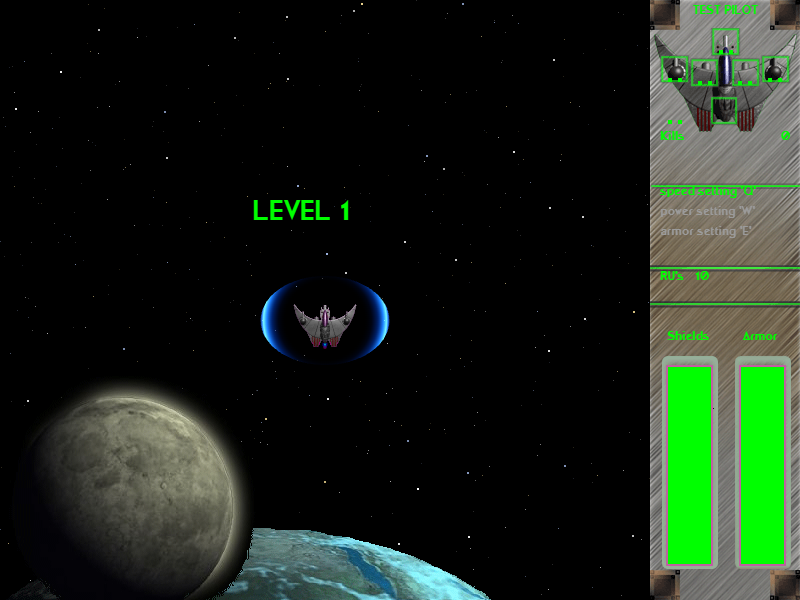
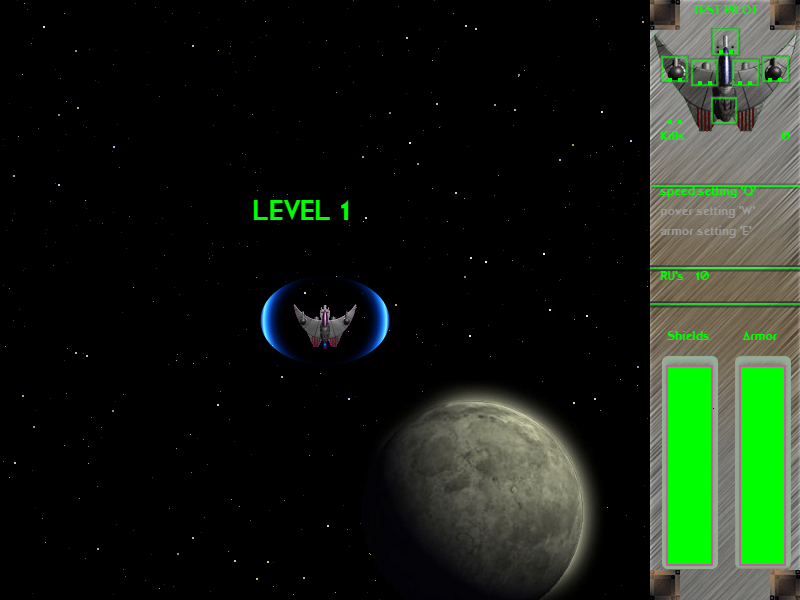
Fix weapon sounds, Earth/Moon positioning, customization screen
Weapon Sounds:
- Player fire triggers PlayerGun1 sound effect
- Enemy fire triggers AlienWeapon1 (gunship) or AlienWeapon5 (fighter)

Earth/Moon Positioning:
- Earth starts at y=150 (was 0) so it appears in lower portion
- Moon starts at y=0, x=350 (was x=0)  now on right side of play area
- Added scroll stop condition: stops when Moon passes y=600
- bodiesStopped flag prevents infinite scrolling

Ship Customization Screen:
- Uses GUI_ship.png (800x555) as background  real ship diagram with
  zone labels, weapon preview, and exit button from original game
- Converted 9 missing PCX assets to PNG (RGBA): gui_button, buy_button,
  turret_pannel_left/right, GUI_ship, exit_gui_button variants
- Buy Power Pod now affects ALL 3 power settings (matching C++ behavior)
- Added Research placeholder (n/a, cost=0) matching original
- Removed duplicate Exit Ship Customization button
- Zone highlights overlay on background without duplicate labels
- Added manifest entries for gui_button, exit_gui_button variants

Changed region(s): [[0.0312, 0.63, 0.75, 1.0], [0.0312, 0.96, 0.0938, 1.0]]

diff --git a/web/src/game/GameManager.ts b/web/src/game/GameManager.ts
@@ -483,6 +483,9 @@ export class GameManager {
             this.player.update(dt, this.input, this.now);
             this.player.emitEngineFlame(this.particles);
             const playerProj = this.player.tryFire(this.input, this.now, this.assets);
+            if (playerProj.length > 0) {
+                try { this.audio.playSound('PlayerGun1'); } catch { /* skip */ }
+            }
             this.projectiles.push(...playerProj);
         }
 
@@ -501,6 +504,11 @@ export class GameManager {
             if (!enemy.alive) continue;
             enemy.update(dt, playerX, playerY);
             const enemyProj = enemy.tryFire(this.now, this.assets);
+            if (enemyProj.length > 0) {
+                try {
+                    this.audio.playSound(enemy.type === 'gunship' ? 'AlienWeapon1' : 'AlienWeapon5');
+                } catch { /* skip */ }
+            }
             this.projectiles.push(...enemyProj);
         }
 
@@ -1438,7 +1446,7 @@ export class GameManager {
             return;
         }
 
-        // Buy Power Pod button
+        // Buy Power Pod button — affects ALL 3 settings (matching C++ behavior)
         if (mx >= 20 && mx <= 250 && my >= 420 && my <= 450) {
             try { this.audio.playSound('MenuSelect'); } catch { /* skip */ }
             if (this.player.powerPlant.resourceUnits < 1) {
@@ -1446,11 +1454,19 @@ export class GameManager {
                 this.custStatusTimer = 120;
                 return;
             }
-            if (setting[zone.c1] < maxCell) {
-                setting[zone.c1]++;
-                this.player.powerPlant.resourceUnits--;
-            } else if (setting[zone.c2] < maxCell) {
-                setting[zone.c2]++;
+            let added = false;
+            // Add power cell to ALL 3 settings for the selected system
+            for (let s = 0; s < 3; s++) {
+                const st = this.player.powerPlant.settings[s];
+                if (st[zone.c1] < maxCell) {
+                    st[zone.c1]++;
+                    added = true;
+                } else if (st[zone.c2] < maxCell) {
+                    st[zone.c2]++;
+                    added = true;
+                }
+            }
+            if (added) {
                 this.player.powerPlant.resourceUnits--;
             } else {
                 this.custStatusMsg = 'Max Number of Power Cells Reached!';
@@ -1469,99 +1485,55 @@ export class GameManager {
     private renderShipCustomization(): void {
         const ctx = this.canvas.ctx;
 
-        // Background
-        const bg = this.assets.tryGetImage('cust_GUI');
+        // Background — use GUI_ship.png (800×555) which has the ship diagram,
+        // zone labels, weapon preview, and exit button already drawn
+        const bg = this.assets.tryGetImage('GUI_ship');
         if (bg) {
-            ctx.drawImage(bg, 0, 0, 800, 600);
+            ctx.fillStyle = '#000';
+            ctx.fillRect(0, 0, 800, 600);
+            ctx.drawImage(bg, 0, 0);
         } else {
+            // Fallback: plain dark background
             ctx.fillStyle = '#0a1a0a';
             ctx.fillRect(0, 0, 800, 600);
-
-            // Top bar — "RU's: N" (left), Rank (center), "Kills: N" (right)
-            if (this.player) {
-                ctx.font = '18px XenoFont, monospace';
-                ctx.fillStyle = '#0f0';
-                ctx.fillText(`RU's:  ${this.player.powerPlant.resourceUnits}`, 10, 18);
-                ctx.textAlign = 'center';
-                const rank = this.getRank(this.player.kills);
-                ctx.fillText(rank, 400, 18);
-                ctx.textAlign = 'right';
-                ctx.fillText(`Kills:    ${this.player.kills}`, 790, 18);
-                ctx.textAlign = 'left';
-            }
-
-            // Draw ship silhouette in the ship area
-            ctx.save();
-            ctx.strokeStyle = '#1a3a1a';
-            ctx.lineWidth = 1;
-
-            // Ship body outline
-            ctx.beginPath();
-            ctx.moveTo(252, 50);   // nose tip
-            ctx.lineTo(215, 100);  // left shoulder
-            ctx.lineTo(100, 140);  // left wing tip
-            ctx.lineTo(120, 170);  // left wing back
-            ctx.lineTo(200, 155);  // left wing inner
-            ctx.lineTo(220, 265);  // left engine
-            ctx.lineTo(290, 265);  // right engine
-            ctx.lineTo(310, 155);  // right wing inner
-            ctx.lineTo(390, 170);  // right wing back
-            ctx.lineTo(410, 140);  // right wing tip
-            ctx.lineTo(295, 100);  // right shoulder
-            ctx.closePath();
-            ctx.stroke();
-
-            // Divider line between ship area and info area
-            ctx.strokeStyle = '#1a3a1a';
-            ctx.beginPath();
-            ctx.moveTo(510, 0);
-            ctx.lineTo(510, 553);
-            ctx.stroke();
-
-            // Horizontal line above Done button
-            ctx.beginPath();
-            ctx.moveTo(0, 553);
-            ctx.lineTo(800, 553);
-            ctx.stroke();
-
-            ctx.restore();
         }
 
-        // Draw system zone outlines with labels
-        ctx.font = '14px XenoFont, monospace';
+        // Top bar — "RU's: N" (left), Rank (center), "Kills: N" (right)
+        // Draw over the background's header area
+        ctx.fillStyle = '#000';
+        ctx.fillRect(0, 0, 800, 28);
+        if (this.player) {
+            ctx.font = '16px XenoFont, monospace';
+            ctx.fillStyle = '#0f0';
+            ctx.fillText(`RU's:  ${this.player.powerPlant.resourceUnits}`, 10, 18);
+            ctx.textAlign = 'center';
+            const rank = this.getRank(this.player.kills);
+            ctx.fillText(rank, 400, 18);
+            ctx.textAlign = 'right';
+            ctx.fillText(`Kills:    ${this.player.kills}`, 790, 18);
+            ctx.textAlign = 'left';
+        }
+
+        // Draw system zone highlights (the background already has zone labels)
         for (let i = 0; i < this.custSystemZones.length; i++) {
             const z = this.custSystemZones[i];
             const isHover = i === this.custHoverSystem;
             const isSelected = i === this.custSelectedSystem;
 
-            // Zone rectangle
             if (isSelected) {
+                ctx.fillStyle = 'rgba(0,255,0,0.12)';
+                ctx.fillRect(z.x1, z.y1, z.x2 - z.x1, z.y2 - z.y1);
                 ctx.strokeStyle = '#0f0';
                 ctx.lineWidth = 2;
-                ctx.fillStyle = 'rgba(0,255,0,0.08)';
-                ctx.fillRect(z.x1, z.y1, z.x2 - z.x1, z.y2 - z.y1);
+                ctx.strokeRect(z.x1, z.y1, z.x2 - z.x1, z.y2 - z.y1);
             } else if (isHover) {
+                ctx.fillStyle = 'rgba(0,255,0,0.06)';
+                ctx.fillRect(z.x1, z.y1, z.x2 - z.x1, z.y2 - z.y1);
                 ctx.strokeStyle = 'rgba(0,255,0,0.6)';
                 ctx.lineWidth = 1;
-            } else {
-                ctx.strokeStyle = 'rgba(0,255,0,0.2)';
-                ctx.lineWidth = 1;
+                ctx.strokeRect(z.x1, z.y1, z.x2 - z.x1, z.y2 - z.y1);
             }
-            ctx.strokeRect(z.x1, z.y1, z.x2 - z.x1, z.y2 - z.y1);
-
-            // Zone label (inside the box)
-            ctx.fillStyle = isSelected ? '#0f0' : 'rgba(0,255,0,0.5)';
-            ctx.textAlign = 'center';
-            ctx.fillText(z.name, (z.x1 + z.x2) / 2, z.y1 + (z.y2 - z.y1) / 2 + 4);
         }
-        ctx.textAlign = 'left';
-
-        // "Select All Systems" label below the ship diagram
-        ctx.font = '16px XenoFont, monospace';
-        ctx.fillStyle = '#0f0';
-        ctx.textAlign = 'right';
-        ctx.fillText('Select All Systems', 470, 273);
-        ctx.textAlign = 'left';
 
         // "System Selected:" label
         const sel = this.custSelectedSystem;
@@ -1571,15 +1543,7 @@ export class GameManager {
             ? this.custSystemZones[sel].name : 'All';
         ctx.fillText(`System Selected: ${selectedName}`, 20, 295);
 
-        // Horizontal divider
-        ctx.strokeStyle = '#1a3a1a';
-        ctx.lineWidth = 1;
-        ctx.beginPath();
-        ctx.moveTo(0, 305);
-        ctx.lineTo(510, 305);
-        ctx.stroke();
-
-        // ===== Left panel info (below divider) =====
+        // ===== Left panel info (below ship diagram) =====
         if (sel >= 0 && sel < this.custSystemZones.length && this.player) {
             const zone = this.custSystemZones[sel];
             const setting = this.player.powerPlant.getSetting();
@@ -1662,7 +1626,7 @@ export class GameManager {
 
         // Buy Power Pod button (only when system selected)
         if (sel >= 0) {
-            // Resource Units (shown near Buy button when a system is selected)
+            // Resource Units
             ctx.fillStyle = '#0f0';
             ctx.font = '14px XenoFont, monospace';
             if (this.player) {
@@ -1671,13 +1635,31 @@ export class GameManager {
 
             const buyHover = this.input.getMousePos();
             const inBuy = buyHover.x >= 20 && buyHover.x <= 250 && buyHover.y >= 420 && buyHover.y <= 450;
-            ctx.fillStyle = inBuy ? 'rgb(70,85,70)' : 'rgb(51,64,51)';
-            ctx.fillRect(20, 420, 230, 30);
+            // Use buy button graphic if available
+            const buyImg = this.assets.tryGetImage('buy');
+            if (buyImg) {
+                ctx.drawImage(buyImg, 20, 420);
+                // Draw cost label next to it
+                ctx.fillStyle = '#0f0';
+                ctx.font = '12px XenoFont, monospace';
+                ctx.fillText('(1 RU)', 90, 440);
+            } else {
+                ctx.fillStyle = inBuy ? 'rgb(70,85,70)' : 'rgb(51,64,51)';
+                ctx.fillRect(20, 420, 230, 30);
+                ctx.fillStyle = '#0f0';
+                ctx.font = '12px XenoFont, monospace';
+                ctx.textAlign = 'center';
+                ctx.fillText('Buy Power Pod (1 RU)', 135, 440);
+                ctx.textAlign = 'left';
+            }
+
+            // Research placeholder (matching original: "n/a")
             ctx.fillStyle = '#0f0';
-            ctx.font = '12px XenoFont, monospace';
-            ctx.textAlign = 'center';
-            ctx.fillText('Buy Power Pod (1 RU)', 135, 440);
-            ctx.textAlign = 'left';
+            ctx.font = '14px XenoFont, monospace';
+            ctx.fillText('Research:', 20, 470);
+            ctx.fillStyle = '#9b9b9b';
+            ctx.fillText('n/a', 50, 490);
+            ctx.fillText('cost = 0', 160, 490);
         }
 
         // Status message
@@ -1702,16 +1684,14 @@ export class GameManager {
             }
         }
 
-        // Done button
+        // Done button — the GUI_ship background already has the "Exit Ship Customization" text.
+        // Just handle hover highlight over the button area (517-800, 553-600).
         const dm = this.input.getMousePos();
         const inDone = dm.x >= 517 && dm.x <= 800 && dm.y >= 553 && dm.y <= 600;
-        ctx.fillStyle = inDone ? 'rgb(70,85,70)' : 'rgb(51,64,51)';
-        ctx.fillRect(517, 553, 283, 47);
-        ctx.fillStyle = '#0f0';
-        ctx.font = '16px XenoFont, monospace';
-        ctx.textAlign = 'center';
-        ctx.fillText('Exit Ship Customization', 658, 582);
-        ctx.textAlign = 'left';
+        if (inDone) {
+            ctx.fillStyle = 'rgba(0,255,0,0.1)';
+            ctx.fillRect(517, 553, 283, 47);
+        }
     }
 
     private drawPowerCells(ctx: CanvasRenderingContext2D, x: number, baseY: number, count: number): void {

diff --git a/web/src/game/StarField.ts b/web/src/game/StarField.ts
@@ -27,8 +27,12 @@ export class StarField {
 
     private earthSprite: HTMLImageElement | null = null;
     private moonSprite: HTMLImageElement | null = null;
-    private earthY = 0;
+    // Earth starts at y=150 so it's already in the lower portion (not at top of screen)
+    // Moon starts at y=0, positioned to the right of center
+    private earthY = 150;
     private moonY = 0;
+    private moonX = 350;
+    private bodiesStopped = false;
 
     constructor(assets?: AssetLoader) {
         for (let i = 0; i < MAX_STARS; i++) {
@@ -83,13 +87,18 @@ export class StarField {
             }
         }
 
-        // Scroll celestial bodies after 300ms delay (bodies visible from start)
-        if (this.elapsed >= 0.3) {
+        // Scroll celestial bodies after 300ms delay; stop when Moon passes screen bottom
+        if (this.elapsed >= 0.3 && !this.bodiesStopped) {
             const earthSpeed = this.speed * (STAR_DISTANCE / (150 + 1));
             this.earthY += earthSpeed * dt;
 
             const moonSpeed = this.speed * (STAR_DISTANCE / (200 + 1));
             this.moonY += moonSpeed * dt;
+
+            // C++: scrolling stops when Moon y > 600
+            if (this.moonY > 600) {
+                this.bodiesStopped = true;
+            }
         }
     }
 
@@ -110,7 +119,7 @@ export class StarField {
             if (this.moonSprite) {
                 ctx.drawImage(
                     this.moonSprite,
-                    0,
+                    this.moonX,
                     this.moonY | 0,
                 );
             }
